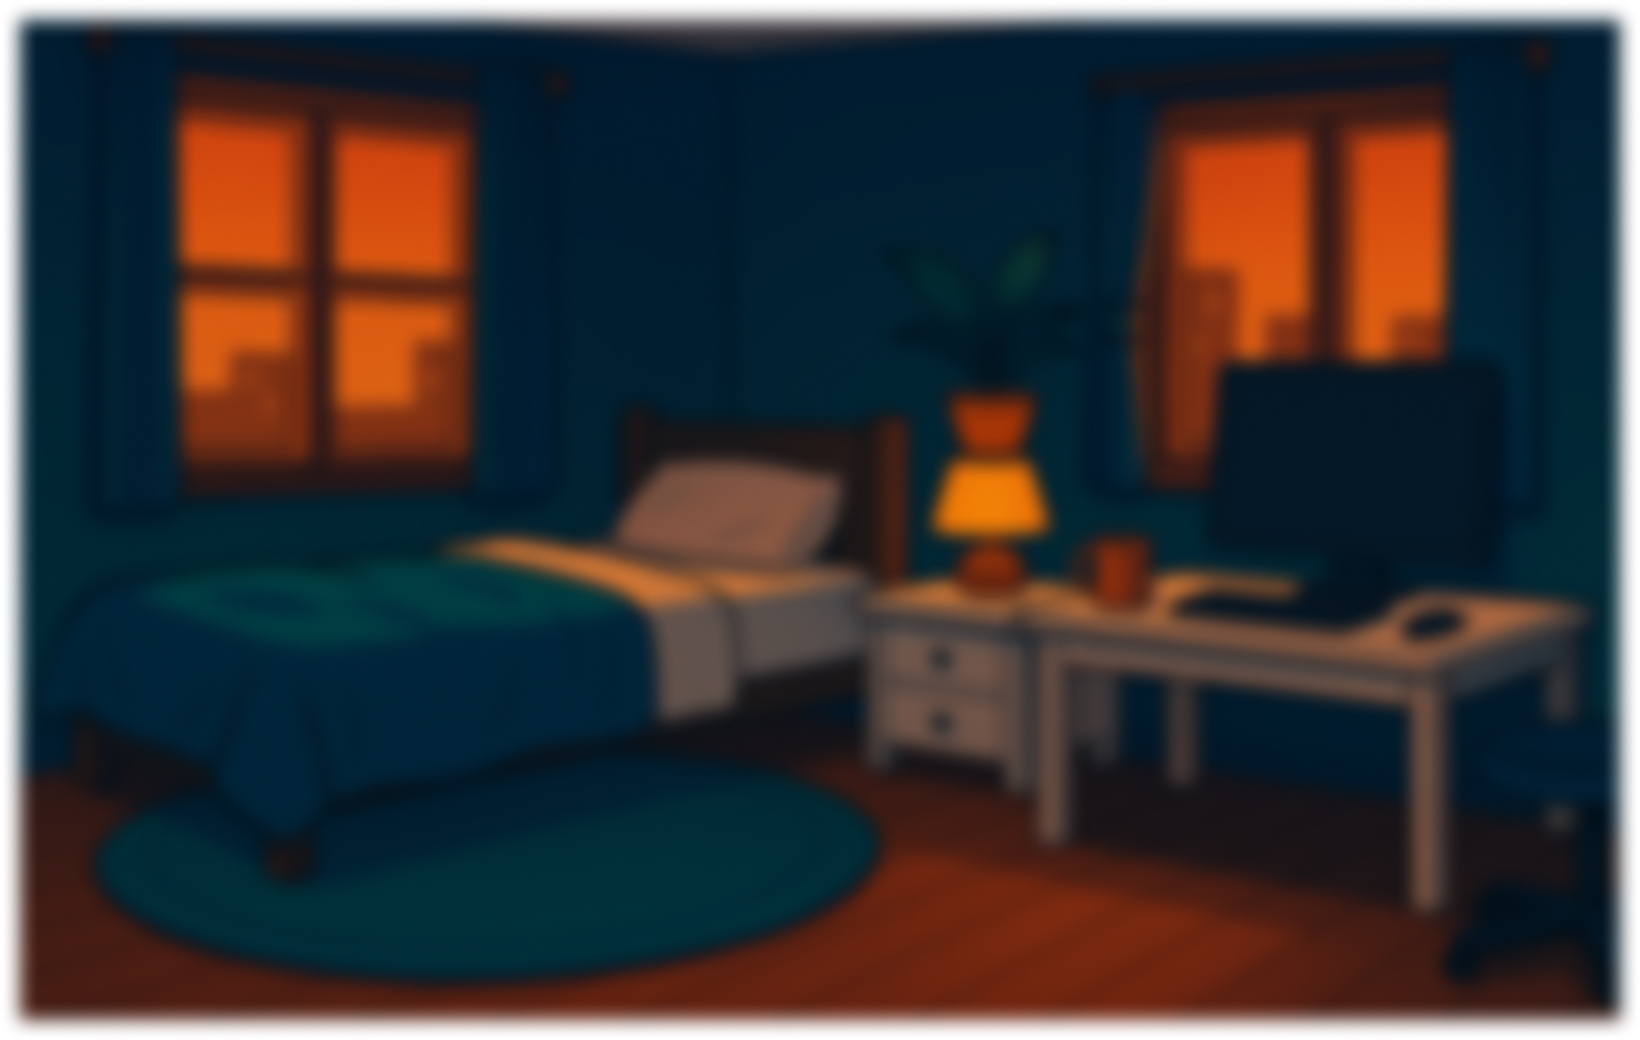
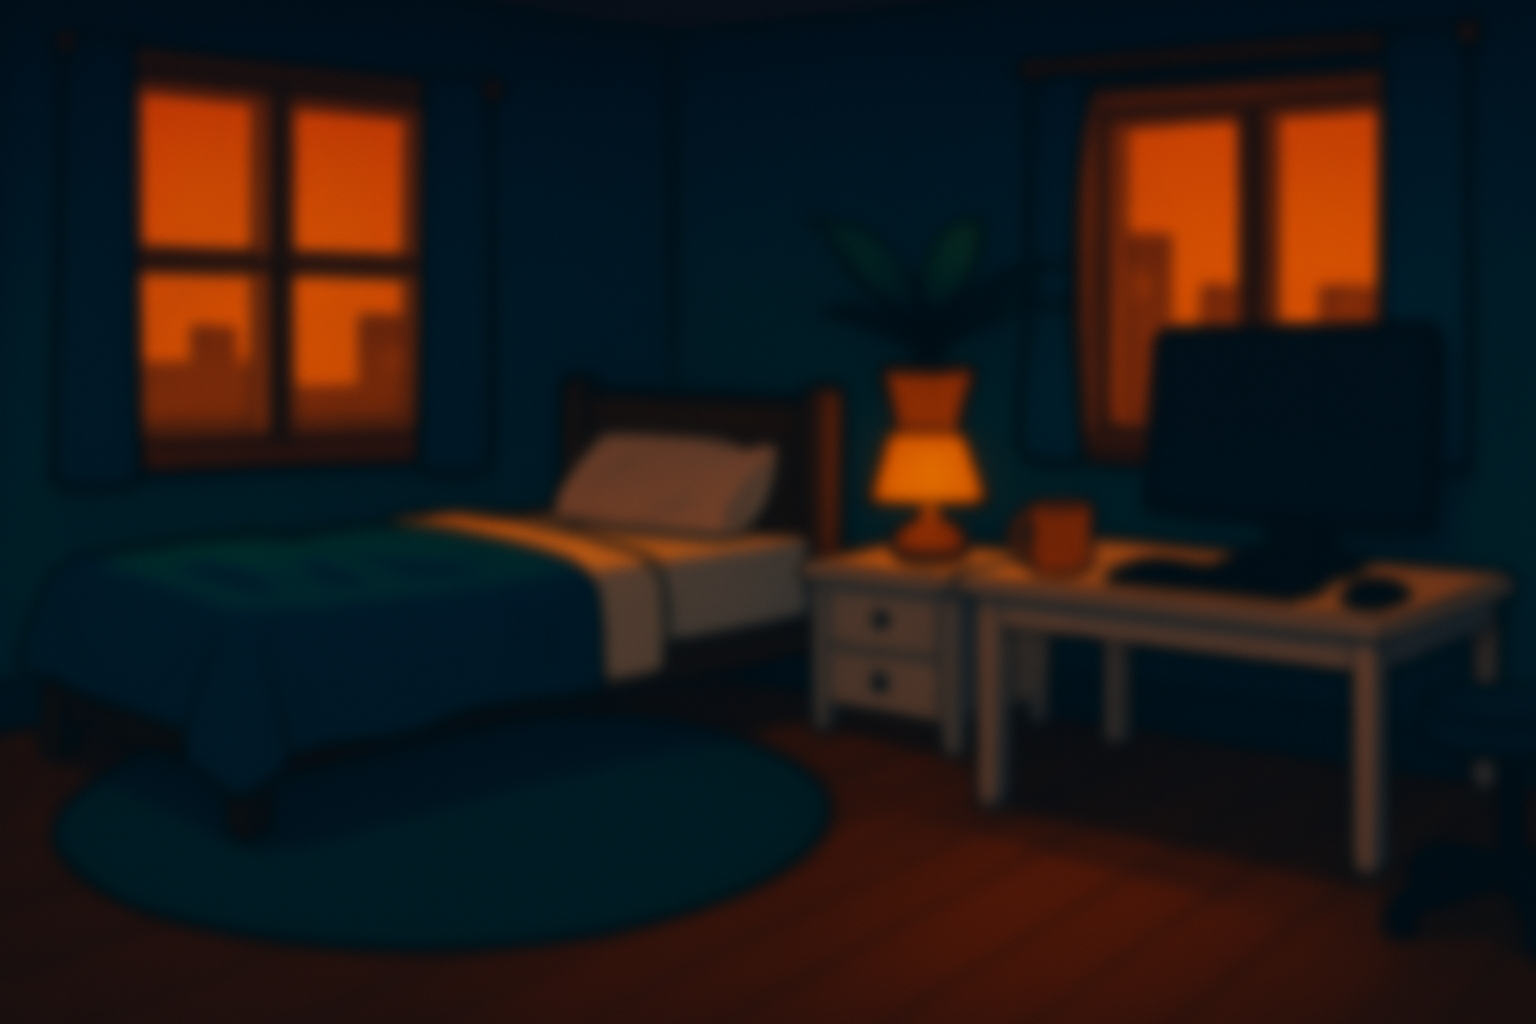
.

diff --git a/objects/button.js b/objects/button.js
@@ -1,48 +1,49 @@
 
 // class Button {
-//   constructor(x, y, w, h, label, action) {
+//   constructor(x, y, w, h, label, action, fontSize = 25) {
 //     this.x = x;
 //     this.y = y;
 //     this.w = w;
 //     this.h = h;
-//     this.label = label
-//     this.action=action
-//     // fontsize=15
-//     // this.isHovered = false;
+//     this.label = label;
+//     this.action = action;
+//     this.fontSize = fontSize;
 //   }
-// display() {
-//   let isHovered = this.isHovered();
-  
-//   noStroke();
-//       if (isHovered) {
-//     fill(140, 124, 104); // Darker shadow when hovered
-//   } else {
-//     fill(160, 144, 124); // Normal shadow
-//   }
-//   rect(this.x + 4, this.y + 4, this.w, this.h, 6);
 
-//   stroke(120, 94, 77);
-//   strokeWeight(2);
-  
-//   // Change button color when hovered
-//   if (isHovered) {
-//     fill(245, 216, 185); // Slightly darker when hovered
-//   } else {
-//     fill(255, 226, 195); // Normal color
-//   }
-//   rect(this.x, this.y, this.w, this.h, 6);
+//   display() {
+//     let isHovered = this.isHovered();
 
-//   noStroke();
-//   if (isHovered) {
-//     fill(100, 74, 57); // Darker text when hovered
-//   } else {
-//     fill(120, 94, 77); // Normal text color
+//     noStroke();
+//     if (isHovered) {
+//       fill(140, 124, 104); // Darker shadow when hovered
+//     } else {
+//       fill(160, 144, 124); // Normal shadow
+//     }
+//     rect(this.x + 4, this.y + 4, this.w, this.h, 6);
+
+//     stroke(120, 94, 77);
+//     strokeWeight(2);
+
+//     // Change button color when hovered
+//     if (isHovered) {
+//       fill(245, 216, 185); // Slightly darker when hovered
+//     } else {
+//       fill(255, 226, 195); // Normal color
+//     }
+//     rect(this.x, this.y, this.w, this.h, 6);
+
+//     noStroke();
+//     if (isHovered) {
+//       fill(100, 74, 57); // Darker text when hovered
+//     } else {
+//       fill(120, 94, 77); // Normal text color
+//     }
+//     textAlign(CENTER, CENTER);
+//     textSize(this.fontSize);
+//     // textFont('Press Start 2P');
+//     textFont(neoFont)
+//     text(this.label, this.x + this.w / 2, this.y + this.h / 2);
 //   }
-//   textAlign(CENTER, CENTER);
-//   textSize(15);
-//   textFont(neoFont);
-//   text(this.label, this.x + this.w / 2, this.y + this.h / 2 + 2);
-// }
 
 //   isHovered() {
 //     return mouseX > this.x && mouseX < this.x + this.w &&
@@ -53,9 +54,8 @@
 //     return this.isHovered() && mouseIsPressed;
 //   }
 // }
-
 class Button {
-  constructor(x, y, w, h, label, action, fontSize = 25) {
+  constructor(x, y, w, h, label, action, fontSize = 20) {
     this.x = x;
     this.y = y;
     this.w = w;
@@ -68,36 +68,40 @@ class Button {
   display() {
     let isHovered = this.isHovered();
 
-    noStroke();
-    if (isHovered) {
-      fill(140, 124, 104); // Darker shadow when hovered
-    } else {
-      fill(160, 144, 124); // Normal shadow
-    }
-    rect(this.x + 4, this.y + 4, this.w, this.h, 6);
-
-    stroke(120, 94, 77);
-    strokeWeight(2);
-
-    // Change button color when hovered
-    if (isHovered) {
-      fill(245, 216, 185); // Slightly darker when hovered
-    } else {
-      fill(255, 226, 195); // Normal color
-    }
-    rect(this.x, this.y, this.w, this.h, 6);
-
-    noStroke();
-    if (isHovered) {
-      fill(100, 74, 57); // Darker text when hovered
-    } else {
-      fill(120, 94, 77); // Normal text color
-    }
+    push();
+    rectMode(CORNER);
     textAlign(CENTER, CENTER);
+    textFont(neoFont);
     textSize(this.fontSize);
-    // textFont('Press Start 2P');
-    textFont(neoFont)
+
+    // --- Glow behind button ---
+    if (isHovered) {
+      noStroke();
+      fill(0, 255, 200, 40); // teal glow
+      rect(this.x - 6, this.y - 6, this.w + 12, this.h + 12, 12);
+    }
+
+    // --- Main button body ---
+    noStroke();
+    fill(10, 10, 40); // dark navy core
+    rect(this.x, this.y, this.w, this.h, 8);
+
+    // --- Neon border ---
+    strokeWeight(2.5);
+    stroke(isHovered ? '#01FFB9' : '#00CED1'); // brighter when hovered
+    noFill();
+    rect(this.x, this.y, this.w, this.h, 8);
+
+    // --- Inner Glow Ring ---
+    strokeWeight(5);
+    stroke(isHovered ? 'rgba(1, 255, 185, 0.3)' : 'rgba(0, 206, 209, 0.2)');
+    rect(this.x, this.y, this.w, this.h, 8);
+
+    // --- Label ---
+    noStroke();
+    fill(isHovered ? '#01FFB9' : '#00FFFF');
     text(this.label, this.x + this.w / 2, this.y + this.h / 2);
+    pop();
   }
 
   isHovered() {
@@ -110,58 +114,9 @@ class Button {
   }
 }
 
-// function drawSelectedScreen(selectedItem) {
-// image(assets.room, 0, 0, width, height);
 
-// let panelWidth = width / 3;
-// let centerX = panelWidth / 2;
-// let centerY = height / 2;
-// let scaleFactor = 1.5;
 
-// // Get item height
-// let itemHeight;
-// if (selectedItem === "wallet") itemHeight = walletItem.baseHeight;
-// else if (selectedItem === "phone") itemHeight = phoneItem.baseHeight;
-// else if (selectedItem === "diary") itemHeight = diaryItem.baseHeight;
 
-// let drawY = centerY - (itemHeight * scaleFactor) / 2;
-
-// // Draw selected item centered in the left panel
-// push();
-// translate(centerX-10, drawY);
-// scale(scaleFactor);
-// if (selectedItem === "wallet") drawWallet(0, 0);
-// else if (selectedItem === "phone") drawPhone(0, 0);
-// else if (selectedItem === "diary") drawDiary(0, 0);
-// pop();
-
-// let btnX = width - 400;
-// let btnW = 300;
-// let btnH = 60;
-// let btnSpacing = 20;
-
-// let buttonConfigs = SettingButtons(selectedItem);
-
-// // Calculate starting Y position to center buttons vertically
-// let totalButtonsHeight = (buttonConfigs.length * btnH) + ((buttonConfigs.length - 1) * btnSpacing);
-// let startY = (height - totalButtonsHeight) / 2;
-
-// let buttons = buttonConfigs.map((config, index) => {
-// let y = startY + index * (btnH + btnSpacing);
-// return new Button(btnX, y, btnW, btnH, config.label, config.action);
-
-// });
-
-// // Display all buttons
-// buttons.forEach(btn => btn.display());
-
-// // Handle button clicks
-// buttons.forEach(btn => {
-//   if (btn.isClicked()) {
-//     ButtonAction(btn.action);
-//   }
-// });
-// }
 
 
 function SettingButtons(selectedItem) {

diff --git a/scenes/itemselection.js b/scenes/itemselection.js
@@ -70,7 +70,8 @@ function drawWorkscreen() {
 
 //choosing wallet
 function drawWalletScreen() {
-  image(assets.room, 0, 0, width, height);
+  // image(assets.room, 0, 0, width, height);
+  image(assets.roomnight, 0, 0, width, height);
 
   // Draw wallet large on left
   push();
@@ -114,7 +115,8 @@ function drawSelectedScreen(selectedItem) {
     screenEnterTime = millis();
   }
   
-  image(assets.room, 0, 0, width, height);
+  // image(assets.room, 0, 0, width, height);
+  image(assets.roomnight, 0, 0, width, height);
 
   let panelWidth = width / 3;
   let centerX = panelWidth / 2;
